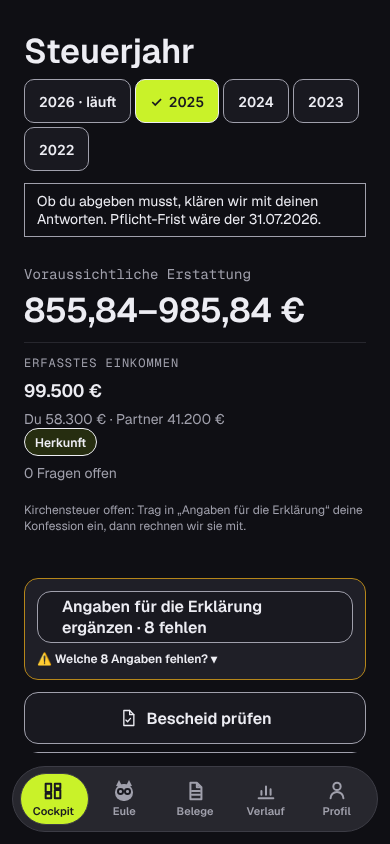
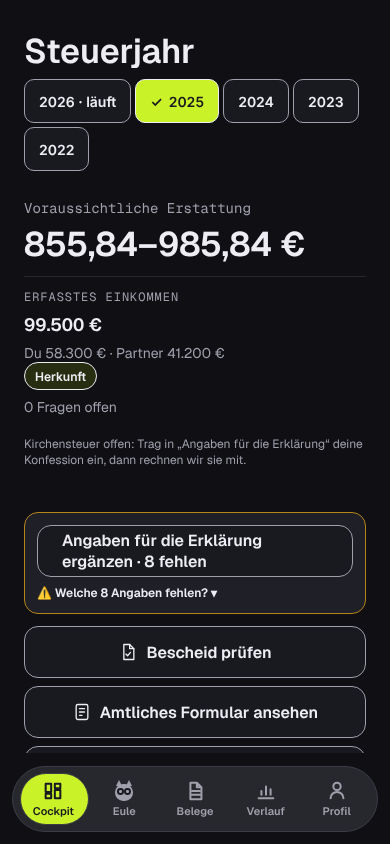
feat(ui): less text on sign-in, the empty cockpit and "Kurz  zu dir"
- Sign-in: BETA is a mark beside the name and nothing more; the notice
  paragraph and the greeting line are gone there. Registration, the
  profile, payment and printout keep the notice written out (WEB-20).
- Cockpit: before the answers say whether a return is due, no deadline
  line is shown (the banners for a due, late or voluntary return stay).
  The empty cockpit keeps its heading and the way in, without the
  paragraph under it.
- "Kurz zu dir": the foreign-work question carries no paragraph on the
  combined page; its answers say it. The single-question screen keeps it.
- Tests and the breakpoint gate follow; unused strings are removed.

Claude-Session: https://claude.ai/code/session_01AH7DRe4f6gCb4nfoR7teLk

diff --git a/apps/mobile-web/src/screens/shared/BetaNotice.tsx b/apps/mobile-web/src/screens/shared/BetaNotice.tsx
@@ -1,58 +1,38 @@
-import { useState } from 'react'
-import { Pressable, Text, View, type TextStyle, type ViewStyle } from 'react-native'
+import { Text, View, type TextStyle, type ViewStyle } from 'react-native'
 import { useTranslation } from 'react-i18next'
 import { useTheme } from '@steuereule/ui'
 import { APP_NS } from '../../i18n/resources'
-import { Icon } from '../../icons/Icon'
 
-interface BetaNoticeProps {
-  /**
-   * The mark instead of the paragraph: a small BETA badge that opens the same notice on a tap. For
-   * the sign-in screen, which every visit starts with; where a decision follows (registration, the
-   * profile, before a payment or a printout) the notice stays written out (WEB-20).
-   */
-  readonly compact?: boolean
-}
-
-/** The beta notice (WEB-20): on sign-in, registration, the profile and before every payment. */
-export function BetaNotice({ compact = false }: BetaNoticeProps = {}) {
+/**
+ * The beta notice (WEB-20), written out: on registration, the profile and before every payment or
+ * printout, where a decision follows. The sign-in screen carries `BetaBadge` beside the name instead.
+ */
+export function BetaNotice() {
   const t = useTheme()
   const { t: tr } = useTranslation(APP_NS)
-  const [open, setOpen] = useState(false)
-  const box: ViewStyle = { backgroundColor: t.color.warnWeich, borderRadius: t.radius.s, padding: t.space.s3, marginBottom: t.space.s4 }
-  const notice = (
-    <Text style={{ ...t.type.small, color: t.color.tinte }}>
-      <Text style={{ ...t.type.label, color: t.color.tinte }}>{tr('beta.label')} </Text>
-      {tr('beta.notice')}
-    </Text>
-  )
-  if (!compact) {
-    return (
-      <View role="note" style={box} testID="beta-hinweis">
-        {notice}
-      </View>
-    )
-  }
-  const badge: ViewStyle = {
-    alignSelf: 'center',
-    minHeight: 44,
-    flexDirection: 'row',
-    alignItems: 'center',
-    gap: t.space.s2,
-    paddingHorizontal: t.space.s3,
-    marginBottom: t.space.s3,
-  }
-  const pill: ViewStyle = { borderWidth: t.space.kontur, borderColor: t.color.linie, borderRadius: t.radius.s, paddingHorizontal: t.space.s2, paddingVertical: 2 }
-  const pillText: TextStyle = { ...t.type.meta, color: t.color.tinte2, letterSpacing: 0.08 * t.size.xs }
   return (
-    <View role="note" testID="beta-hinweis">
-      <Pressable accessibilityRole="button" aria-expanded={open} accessibilityLabel={tr('beta.badgeHint')} onPress={() => setOpen((v) => !v)} style={badge} testID="beta-marke">
-        <View style={pill}>
-          <Text style={pillText}>{tr('beta.badge')}</Text>
-        </View>
-        <Icon name="info" size={18} color={t.color.tinte2} />
-      </Pressable>
-      {open ? <View style={box}>{notice}</View> : null}
+    <View
+      role="note"
+      style={{ backgroundColor: t.color.warnWeich, borderRadius: t.radius.s, padding: t.space.s3, marginBottom: t.space.s4 }}
+      testID="beta-hinweis"
+    >
+      <Text style={{ ...t.type.small, color: t.color.tinte }}>
+        <Text style={{ ...t.type.label, color: t.color.tinte }}>{tr('beta.label')} </Text>
+        {tr('beta.notice')}
+      </Text>
+    </View>
+  )
+}
+
+/** The word BETA as a small mark beside the brand name: says the stage, explains nothing. */
+export function BetaBadge() {
+  const t = useTheme()
+  const { t: tr } = useTranslation(APP_NS)
+  const pill: ViewStyle = { borderWidth: t.space.kontur, borderColor: t.color.linie, borderRadius: t.radius.s, paddingHorizontal: t.space.s2, paddingVertical: 2 }
+  const text: TextStyle = { ...t.type.meta, color: t.color.tinte2, letterSpacing: 0.08 * t.size.xs }
+  return (
+    <View style={pill} testID="beta-marke">
+      <Text style={text}>{tr('beta.badge')}</Text>
     </View>
   )
 }

diff --git a/apps/mobile-web/src/screens/login/PageHeader.tsx b/apps/mobile-web/src/screens/login/PageHeader.tsx
@@ -3,6 +3,7 @@ import { type UiTheme } from '@steuereule/ui'
 import type { Tr } from '../shared/tr'
 import { OwlMark } from '../../marks/OwlMark'
 import { useOwlEntrance } from '../../marks/useOwlEntrance'
+import { BetaBadge } from '../shared/BetaNotice'
 
 interface PageHeaderProps {
   readonly tr: Tr
@@ -13,19 +14,17 @@ interface PageHeaderProps {
 export function PageHeader({ tr, t, showDivider }: PageHeaderProps) {
   const styles = makeStyles(t)
   const owl = useOwlEntrance()
-  // The lockup (Graphit): the animated owl as the symbol, then the name written out. The owl greets
-  // first, the heading reads "SteuerEule" as one word.
+  // The lockup (Graphit): the animated owl as the symbol, the name written out, the BETA mark beside
+  // it. The heading reads "SteuerEule" as one word; the mark is not part of the name.
   return (
     <View style={styles.header}>
-      <View style={styles.wordmarkRow} role="heading" aria-level={1} testID="login-splash">
-        <OwlMark variant="tinte" size={OWL_SIZE} {...owl} />
-        <Text style={styles.wordmark}>{`${tr('brand.steuer')}${tr('brand.eule')}`}</Text>
+      <View style={styles.lockup}>
+        <View style={styles.wordmarkRow} role="heading" aria-level={1} testID="login-splash">
+          <OwlMark variant="tinte" size={OWL_SIZE} {...owl} />
+          <Text style={styles.wordmark}>{`${tr('brand.steuer')}${tr('brand.eule')}`}</Text>
+        </View>
+        <BetaBadge />
       </View>
-      <Text style={styles.subheading} role="heading" aria-level={2}>
-        {tr('login.greetingBefore')}
-        <Text style={{ color: t.color.funkeTinte }}>{tr('login.greetingMark')}</Text>
-        {tr('login.greetingAfter')}
-      </Text>
       <Text style={styles.subtitle}>{tr('login.subtitle')}</Text>
       {showDivider ? <View style={styles.headerDivider} /> : null}
     </View>
@@ -36,7 +35,7 @@ const OWL_SIZE = 52
 
 function makeStyles(t: UiTheme) {
   const header: ViewStyle = { width: '100%' }
-  const wordmarkRow: ViewStyle = {
+  const lockup: ViewStyle = {
     flexDirection: 'row',
     alignItems: 'center',
     justifyContent: 'center',
@@ -44,13 +43,13 @@ function makeStyles(t: UiTheme) {
     paddingTop: t.space.s4,
     marginBottom: t.space.s5,
   }
+  const wordmarkRow: ViewStyle = { flexDirection: 'row', alignItems: 'center', gap: t.space.s3 }
   const wordmark: TextStyle = {
     ...t.type.title,
     letterSpacing: -0.03 * t.size['3xl'],
     color: t.color.tinte,
   }
-  const subheading: TextStyle = { ...t.type.emphasis, color: t.color.tinte, marginBottom: t.space.s1 }
-  const subtitle: TextStyle = { ...t.type.body, color: t.color.tinte2 }
+  const subtitle: TextStyle = { ...t.type.body, color: t.color.tinte2, textAlign: 'center', marginBottom: t.space.s5 }
   const headerDivider: ViewStyle = { height: 2, backgroundColor: t.color.linieWeich, borderRadius: 1, marginTop: t.space.s5, marginBottom: t.space.s5, width: '100%' }
-  return { header, wordmarkRow, wordmark, subheading, subtitle, headerDivider }
+  return { header, lockup, wordmarkRow, wordmark, subtitle, headerDivider }
 }

diff --git a/apps/mobile-web/src/screens/shared/BetaNotice.test.tsx b/apps/mobile-web/src/screens/shared/BetaNotice.test.tsx
@@ -1,32 +1,22 @@
 import { describe, expect, it } from 'vitest'
-import { fireEvent, screen } from '@testing-library/react'
+import { screen } from '@testing-library/react'
 import { renderWithQuery } from '../../../test/test-render'
-import { BetaNotice } from './BetaNotice'
+import { BetaBadge, BetaNotice } from './BetaNotice'
 
-describe('BetaNotice', () => {
-  it('is written out by default: where a decision follows, nobody has to tap for it (WEB-20)', () => {
+describe('the beta notice', () => {
+  it('BetaNotice is written out: where a decision follows, the full text stands there (WEB-20)', () => {
     renderWithQuery(<BetaNotice />)
-    expect(screen.getByTestId('beta-hinweis').textContent).toContain('SteuerEule ist in der Testphase.')
-    expect(screen.queryByTestId('beta-marke')).toBeNull()
+    const note = screen.getByTestId('beta-hinweis')
+    expect(note.getAttribute('role')).toBe('note')
+    expect(note.textContent).toContain('SteuerEule ist in der Testphase.')
+    expect(note.textContent).toContain('Prüfe jeden Ausdruck, bevor du ihn unterschreibst und einreichst.')
   })
 
-  it('compact: a BETA mark that opens and closes the same notice', () => {
-    renderWithQuery(<BetaNotice compact />)
-    const mark = screen.getByRole('button', { name: 'Beta: Was heißt das?' })
-    expect(mark.textContent).toContain('BETA')
-    expect(mark.getAttribute('aria-expanded')).toBe('false')
-    expect(screen.getByTestId('beta-hinweis').textContent).not.toContain('Testphase')
-
-    fireEvent.click(mark)
-    expect(mark.getAttribute('aria-expanded')).toBe('true')
-    expect(screen.getByTestId('beta-hinweis').textContent).toContain('Prüfe jeden Ausdruck, bevor du ihn unterschreibst und einreichst.')
-
-    fireEvent.click(mark)
-    expect(screen.getByTestId('beta-hinweis').textContent).not.toContain('Testphase')
-  })
-
-  it('compact: the mark is a touch-sized target', () => {
-    renderWithQuery(<BetaNotice compact />)
-    expect(Number.parseFloat(getComputedStyle(screen.getByTestId('beta-marke')).minHeight)).toBeGreaterThanOrEqual(44)
+  it('BetaBadge is the word alone: no explanation, nothing to press', () => {
+    renderWithQuery(<BetaBadge />)
+    const badge = screen.getByTestId('beta-marke')
+    expect(badge.textContent).toBe('BETA')
+    expect(screen.queryByRole('button')).toBeNull()
+    expect(screen.queryByTestId('beta-hinweis')).toBeNull()
   })
 })

diff --git a/apps/mobile-web/src/screens/deadlines/DeadlinesBanner.test.tsx b/apps/mobile-web/src/screens/deadlines/DeadlinesBanner.test.tsx
@@ -4,7 +4,7 @@
 // nothing). The dates come from the server (GET .../fristen) — the client clock plays no role. Whether
 // the deadline binds at all comes from the interview answers (Pflicht- vs. Antragsveranlagung).
 import { describe, it, expect } from 'vitest'
-import { render, screen } from '@testing-library/react'
+import { render, screen, waitFor } from '@testing-library/react'
 import { I18nextProvider } from 'react-i18next'
 import { ThemeProvider } from '@steuereule/ui'
 import { http, HttpResponse } from 'msw'
@@ -79,12 +79,14 @@ describe('DeadlinesBanner (wired)', () => {
     expect(container.querySelector('[data-testid^="fristen-banner"]')).toBeNull()
   })
 
-  it('before any answer: neutral, never the surcharge alarm', async () => {
-    server.use(http.get(DEADLINES_URL, () => HttpResponse.json(EXPIRED, { status: 200 })))
-    renderBanner({})
+  it('before any answer: no banner at all, never the surcharge alarm', async () => {
+    let asked = false
+    server.use(http.get(DEADLINES_URL, () => { asked = true; return HttpResponse.json(EXPIRED, { status: 200 }) }))
+    const { container } = renderBanner({})
 
-    expect(await screen.findByTestId('fristen-banner-unklar')).toBeTruthy()
-    expect(screen.getByText('Ob du abgeben musst, klären wir mit deinen Antworten. Pflicht-Frist wäre der 31.07.2026.')).toBeTruthy()
+    await waitFor(() => expect(asked).toBe(true))
+    await new Promise((resolve) => setTimeout(resolve, 20))
+    expect(container.querySelector('[data-testid^="fristen-banner"]')).toBeNull()
     expect(screen.queryByText(/Verspätungszuschlag/)).toBeNull()
   })
 })
@@ -124,9 +126,9 @@ describe('Banner (pure presentational)', () => {
     expect(screen.queryByText(/Verspätungszuschlag/)).toBeNull()
   })
 
-  it('unklar (e.g. married): neutral with the would-be deadline', () => {
-    renderPure(EXPIRED, { ...VOLUNTARY, familienstand: 'Verheiratet' })
-    expect(screen.getByTestId('fristen-banner-unklar')).toBeTruthy()
+  it('unklar (e.g. married): nothing to act on yet, so no banner', () => {
+    const { container } = renderPure(EXPIRED, { ...VOLUNTARY, familienstand: 'Verheiratet' })
+    expect(container.querySelector('[data-testid^="fristen-banner"]')).toBeNull()
     expect(screen.queryByText(/Verspätungszuschlag/)).toBeNull()
   })
 })

diff --git a/apps/mobile-web/src/screens/LoginScreen.test.tsx b/apps/mobile-web/src/screens/LoginScreen.test.tsx
@@ -92,10 +92,10 @@ describe('LoginScreen', () => {
   // standing assertion — closed here. `getByRole('heading', { level: N })` only resolves if
   // `role="heading"`/`aria-level={N}` actually reached the rendered DOM (react-native-web's
   // own forwarding, not assumed) — dropping either prop from PageHeader turns this red.
-  it('gives the wordmark and greeting real heading semantics, not just visual size (#298 F8)', () => {
+  it('gives the wordmark real heading semantics, not just visual size (#298 F8); the greeting line is gone', () => {
     renderLogin()
     expect(screen.getByRole('heading', { level: 1 }).textContent).toBe('SteuerEule')
-    expect(screen.getByRole('heading', { level: 2 }).textContent).toBe('Schön, dass du da bist.')
+    expect(screen.queryByRole('heading', { level: 2 })).toBeNull()
   })
 
   // The wordmark is the splash: "Steuer" + the ink owl in place of the word "Eule".
@@ -122,12 +122,14 @@ describe('LoginScreen', () => {
     expect(style.borderTopLeftRadius).toBe('28px')
   })
 
-  it('carries the beta notice as a mark that opens the full text on a tap', async () => {
+  it('says BETA beside the name and nothing more: no notice paragraph, no greeting line', async () => {
     renderLogin()
-    const mark = await screen.findByTestId('beta-marke')
-    expect(screen.queryByText(/SteuerEule ist in der Testphase/)).toBeNull()
-    fireEvent.click(mark)
-    expect(screen.getByText(/SteuerEule ist in der Testphase/)).toBeTruthy()
+    const badge = await screen.findByTestId('beta-marke')
+    expect(badge.textContent).toBe('BETA')
+    expect(screen.getByTestId('login-splash').parentElement).toBe(badge.parentElement)
+    expect(screen.queryByTestId('beta-hinweis')).toBeNull()
+    expect(screen.queryByText(/Testphase/)).toBeNull()
+    expect(screen.queryByText(/Schön, dass du/)).toBeNull()
   })
 
   it('writes the name out beside the owl: one heading that reads "SteuerEule"', async () => {

diff --git a/apps/mobile-web/App.test.tsx b/apps/mobile-web/App.test.tsx
@@ -85,7 +85,9 @@ async function enterAsGuestThroughInterview() {
   // branching question on one page, then one Weiter.
   await screen.findByTestId('interview-option-job-Angestellt')
   fireEvent.click(screen.getByTestId('interview-option-job-Angestellt'))
-  expect(screen.getByText('Wer in Deutschland wohnt und in der Schweiz arbeitet, hat eigene Regeln — die gehen wir komplett mit dir durch.')).toBeTruthy()
+  // The foreign question is there with its answers; on this page it carries no paragraph of its own.
+  expect(screen.getByText('In ein anderes Land')).toBeTruthy()
+  expect(screen.queryByText(/Wer in Deutschland wohnt und in der Schweiz arbeitet/)).toBeNull()
   fireEvent.click(screen.getByTestId('interview-option-ausland-Nein'))
   fireEvent.click(screen.getByTestId('interview-option-kinder-2 oder mehr'))
   fireEvent.click(screen.getByTestId('interview-option-familienstand-Ledig'))

diff --git a/apps/mobile-web/src/screens/LoginScreen.tsx b/apps/mobile-web/src/screens/LoginScreen.tsx
@@ -14,7 +14,6 @@ import { makeLoginStyles } from './login/loginStyles'
 import { SocialSignInSection } from './shared/SocialSignInSection'
 import { ForgotPasswordForm } from './login/ForgotPasswordForm'
 import { LegalLinks } from './legal/LegalLinks'
-import { BetaNotice } from './shared/BetaNotice'
 import type { LegalPage } from './legal/texts'
 import { MIN_PASSWORD_LENGTH } from '../auth/password-policy'
 import { isAssistantSignIn } from '../auth/assistant-sign-in'
@@ -128,7 +127,6 @@ export function LoginScreen({ onDone, onGuest, onRegister, showDeviceQr = true, 
 
   const formColumn = (
     <View style={bp === 's' ? undefined : styles.formColumn}>
-      <BetaNotice compact />
       <SocialSignInSection
         disabled={stage.kind === 'submitting'}
         onSignedIn={onDone}

diff --git a/apps/mobile-web/src/screens/strom/StromPages.tsx b/apps/mobile-web/src/screens/strom/StromPages.tsx
@@ -63,7 +63,10 @@ function useBasisCopy(taxYear: number, answers: Answers): FieldCopy {
     help: (id) => {
       const copy = QUESTION_COPY[id as QuestionId]
       if (copy === undefined) return ''
-      return tr(id === 'ausland' && answers.job === 'Rente' ? 'interview.auslandRente.help' : copy.helpKey)
+      // „Kurz zu dir“ puts several questions on one page: the foreign question explains itself through
+      // its answers there, and its paragraph made the page crowded. The single-question screen keeps it.
+      if (id === 'ausland') return ''
+      return tr(copy.helpKey)
     },
     notice: (id) =>
       id === 'gewerbe'

diff --git a/apps/mobile-web/src/screens/deadlines/DeadlinesBanner.tsx b/apps/mobile-web/src/screens/deadlines/DeadlinesBanner.tsx
@@ -71,11 +71,8 @@ export function Banner({ dto, taxYear, answers }: { readonly dto: DeadlinesRespo
         </View>
       )
     case 'unklar':
-      return (
-        <View style={styles.calmBanner} testID="fristen-banner-unklar">
-          <Text style={styles.calmText}>{tr('fristen.unklar', { frist })}</Text>
-        </View>
-      )
+      // Before the answers say whether a return is due there is nothing to act on: no banner.
+      return null
     case 'zuschlag':
       return (
         <View style={styles.banner} testID="fristen-banner-zuschlag" accessibilityRole="alert">

diff --git a/apps/mobile-web/src/screens/cockpit/CockpitScreen.test.tsx b/apps/mobile-web/src/screens/cockpit/CockpitScreen.test.tsx
@@ -256,9 +256,8 @@ describe('CockpitScreen', () => {
     renderCockpit()
 
     await screen.findByText('Noch keine Angaben.')
-    expect(
-      screen.getByText('Für dieses Steuerjahr liegen noch keine Angaben vor. Sobald deine Daten da sind, zeigen wir dir hier dein erfasstes Einkommen.'),
-    ).toBeTruthy()
+    // The heading and the way in say it all: no paragraph under it.
+    expect(screen.queryByText(/Für dieses Steuerjahr liegen noch keine Angaben vor/)).toBeNull()
     expect(screen.queryByText('Erfasstes Einkommen')).toBeNull()
   })
 

diff --git a/apps/mobile-web/src/screens/cockpit/CockpitEmpty.tsx b/apps/mobile-web/src/screens/cockpit/CockpitEmpty.tsx
@@ -24,7 +24,6 @@ export function CockpitEmpty(props: CockpitEmptyProps) {
       <EuleBannerNotice />
       <View style={styles.emptyBlock}>
         <Text style={styles.heading}>{tr('cockpit.empty.heading')}</Text>
-        <Text style={styles.help}>{tr('cockpit.empty.message')}</Text>
         <ProgressLine progress={progress} />
         {next ? (
           <Button onPress={next.onPress} style={styles.cta} testID="cockpit-weiter">

diff --git a/README.md b/README.md
@@ -89,7 +89,7 @@ Traditional tax software presents dense tabular forms without proactive guidance
 
 | Device Management | Passwordless QR Handoff | Guest Mode & Instant Login |
 |:---:|:---:|:---:|
-| <img src="images/screenshots/profil.png" width="280" alt="Profile: the stored details, the links to privacy and security, the appearance setting" /> | <img src="images/screenshots/geraetefreigabe.png" width="280" alt="Device approval: the code of the other screen with browser, system and time, and the question whether it is yours" /> | <img src="images/screenshots/login.png" width="280" alt="Login: the owl beside the written-out name, a BETA mark, Google as a round symbol, e-mail and password, guest mode" /> |
+| <img src="images/screenshots/profil.png" width="280" alt="Profile: the stored details, the links to privacy and security, the appearance setting" /> | <img src="images/screenshots/geraetefreigabe.png" width="280" alt="Device approval: the code of the other screen with browser, system and time, and the question whether it is yours" /> | <img src="images/screenshots/login.png" width="280" alt="Login: the owl, the written-out name and a BETA mark on one line, Google as a round symbol, e-mail and password, guest mode" /> |
 | *Active session overview with individual remote revoke.* | *Seamless desktop login via mobile camera verification.* | *Zero-friction guest exploration without forced signup.* |
 
 **One look at every width, light and dark.** White ground, hairlines and lime as the single accent in light mode; graphite with cards one step lighter in dark mode. Beyond the phone the tabs become a rail on the left edge.
